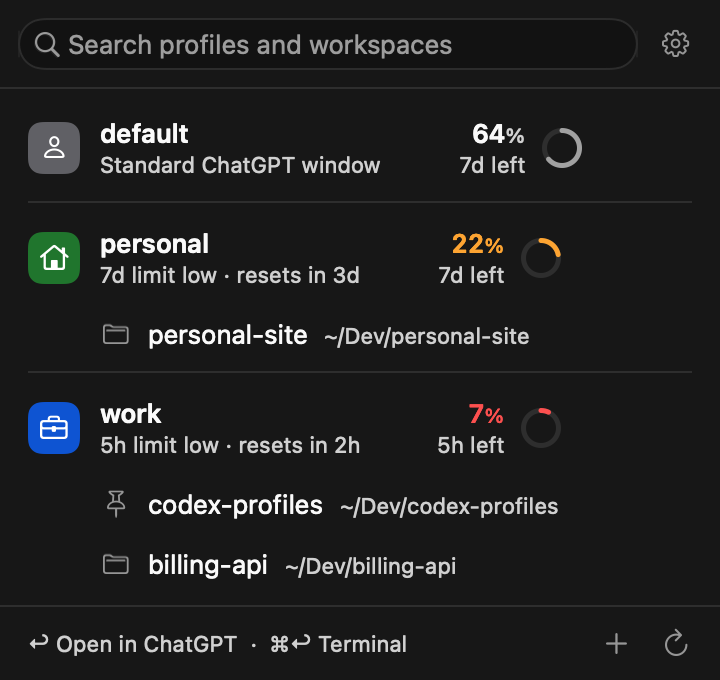
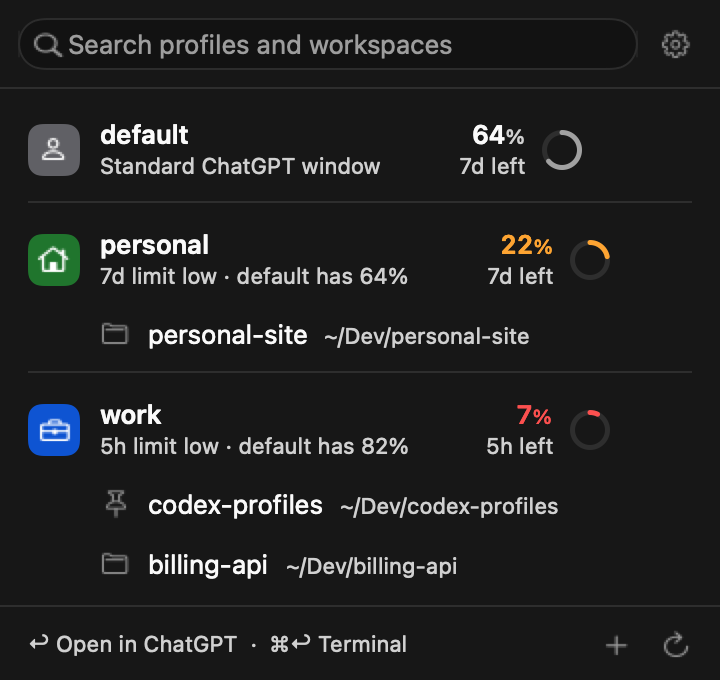
docs(feat): show the menu and terminal side by side on the site
Bring the site's menu bar section up to date with the app and stop
hiding the CLI behind a tab.

- The Menu bar / Terminal switch is gone. The current menu screenshot
  and the terminal sit side by side on the same three-column grid as
  the features below, and stack under 1100px. The terminal types
  itself out once when it scrolls into view.
- `docs/menu-dark.png` is the latest preview render: each profile's
  colour and symbol, and low rows naming a healthier profile.
- The terminal opens with real `codex-profile appearance` output, and
  the feature copy covers colours and symbols, the healthier-profile
  hint, quota beside the menu bar icon and the ⌃⌥⌘P shortcut.
- Terminal lines no longer stay hidden after the typing animation: it
  now uses step-start, because steps(1) could end at 99.999ms and
  never show the line.
- Terminal markers stick to the visible right edge, so a narrow
  terminal never cuts one in half, and feature headings align across
  columns.

diff --git a/docs/index.html b/docs/index.html
@@ -311,16 +311,11 @@
     .kvs dt { color: var(--mute); }
     .kvs dd { margin: 0; text-align: right; }
 
-    .menu-grid { display: grid; grid-template-columns: repeat(auto-fit, minmax(min(320px, 100%), 1fr)); gap: 56px 72px; align-items: center; }
-    .shot { display: flex; flex-direction: column; gap: 20px; min-width: 0; max-width: 640px; margin: 0; }
-    .shot-frame { position: relative; max-width: 460px; }
-    .vsw { display: inline-flex; align-self: flex-start; padding: 3px; border: 1px solid var(--line-2); border-radius: 999px; }
-    .vsw[hidden] { display: none; }
-    .vsw button { min-height: 36px; padding: 0 16px; border: 0; border-radius: 999px; background: transparent; color: var(--mute); font: 12px var(--mono); letter-spacing: 0.06em; text-transform: uppercase; cursor: pointer; transition: background 0.2s, color 0.2s; }
-    .vsw button:hover { color: var(--ink); }
-    .vsw button[aria-selected="true"] { background: var(--ink); color: var(--bg); }
-    .view { min-width: 0; }
-    .view > .cap { margin: 14px 0 0; }
+    .shots { display: grid; grid-template-columns: repeat(3, minmax(0, 1fr)); gap: 48px 40px; align-items: start; }
+    .shot { display: flex; flex-direction: column; gap: 14px; min-width: 0; margin: 0; }
+    .shot-menu { max-width: 460px; }
+    .shot-term { grid-column: span 2; }
+    .shot-frame { position: relative; }
     .term { overflow: hidden; background: #0C0C0B; border: 1px solid #2A2A28; border-radius: 14px; }
     .term-bar { display: flex; justify-content: space-between; gap: 16px; padding: 10px 16px; border-bottom: 1px solid var(--line); font: 11px var(--mono); letter-spacing: 0.06em; text-transform: uppercase; color: var(--mute); }
     .term-body { margin: 0; padding: 14px 0 18px; overflow-x: auto; font: 11.5px/1.6 var(--mono); color: var(--soft); }
@@ -328,10 +323,14 @@
     .ln { position: relative; display: block; padding: 0 52px 0 16px; white-space: pre; transition: background 0.2s; }
     .ln.cmdl, .ln.hd { color: var(--ink); }
     .ln .ps { color: var(--mute); }
-    .tpin { top: 50%; right: 10px; left: auto; transform: translateY(-50%); }
+    /* Terminal markers stick to the visible right edge, so a scrolled or narrow
+       terminal never cuts one in half. */
+    .ln[data-k] { display: flex; align-items: center; padding-right: 10px; }
+    .pin.tpin { position: sticky; top: auto; right: 10px; left: auto; flex: none; margin: -2px 0 -2px auto; transform: none; }
     .caret { display: inline-block; width: 0.6em; height: 1.15em; margin-left: 1px; vertical-align: text-bottom; background: var(--ink); animation: caret 1.1s steps(1) infinite; }
     @keyframes caret { 50% { opacity: 0; } }
-    .term.play .ln { animation: ln-in 0.01s steps(1) both; animation-delay: calc(var(--i) * 45ms); }
+    .term.wait .ln { opacity: 0; }
+    .term.play .ln { animation: ln-in 0.01s step-start both; animation-delay: calc(var(--i) * 45ms); }
     @keyframes ln-in { from { opacity: 0; } to { opacity: 1; } }
     .shot img { display: block; width: 100%; height: auto; border: 1px solid #2A2A28; border-radius: 14px; }
     .pin { position: absolute; padding: 4px 7px; background: var(--bg); border: 1px solid var(--ink); font: 11px/1 var(--mono); letter-spacing: 0.04em; transform: translate(-50%, -50%); transition: background 0.2s, color 0.2s; }
@@ -341,15 +340,12 @@
     .menu:has(.feats li[data-k="1"]:hover) .ln[data-k="1"],
     .menu:has(.feats li[data-k="2"]:hover) .ln[data-k="2"],
     .menu:has(.feats li[data-k="3"]:hover) .ln[data-k="3"] { background: #1A1A19; }
-    .menu-copy { display: flex; flex-direction: column; gap: 40px; }
-    .menu-copy .note { margin: 0; }
-    .feats { margin: 0; padding: 0; list-style: none; }
-    .feats li { display: grid; grid-template-columns: 56px minmax(0, 1fr); gap: 0 20px; padding: 22px 0; border-top: 1px solid var(--line); }
-    .feats li:last-child { border-bottom: 1px solid var(--line); }
+    .feats { display: grid; grid-template-columns: repeat(3, minmax(0, 1fr)); gap: 0 40px; margin: 56px 0 0; padding: 0; list-style: none; }
+    .feats li { display: grid; grid-template-columns: minmax(0, 1fr); align-content: start; gap: 14px; padding: 22px 0; border-top: 1px solid var(--line); }
     .feats h3 { margin: 0 0 8px; font-weight: 400; font-size: 24px; letter-spacing: -0.025em; }
     .feats p { margin: 0; font-size: 16px; line-height: 1.55; color: var(--soft); }
     .feats .tl { margin-top: 10px; font-size: 13px; color: var(--mute); }
-    .feats .tl code { font-size: 12.5px; color: var(--ink); }
+    .feats .tl code { font-size: 12.5px; color: var(--ink); white-space: nowrap; }
 
     .launch-grid { display: grid; grid-template-columns: repeat(auto-fit, minmax(min(340px, 100%), 1fr)); gap: 48px 64px; align-items: center; }
     .traj { position: relative; height: 560px; overflow: hidden; border: 1px solid var(--line); }
@@ -430,8 +426,14 @@
     .foot nav { display: flex; flex-wrap: wrap; gap: 0 22px; }
     .foot nav a { display: inline-flex; align-items: center; min-height: 44px; }
 
+    @media (max-width: 1100px) {
+      .shots { grid-template-columns: 1fr; }
+      .shot-term { grid-column: auto; }
+    }
     @media (max-width: 900px) {
-      .three, .does, .does ul, .notes, .faq-grid { grid-template-columns: 1fr; }
+      .three, .does, .does ul, .notes, .faq-grid, .feats { grid-template-columns: 1fr; }
+      .feats li { grid-template-columns: 56px minmax(0, 640px); gap: 0 20px; }
+      .feats li:last-child { border-bottom: 1px solid var(--line); }
       .zeros { grid-template-columns: repeat(2, minmax(0, 1fr)); }
       .z:nth-child(3) { padding-left: 0; border-left: 0; }
       .z:nth-child(n + 3) { border-top: 1px solid var(--line); }
@@ -448,6 +450,7 @@
       .cmd { padding: 12px 14px; border-radius: 18px; }
       .facts dl div { grid-template-columns: 96px minmax(0, 1fr); }
       .faq-list article { grid-template-columns: 36px minmax(0, 1fr); gap: 8px 12px; }
+      .feats li { grid-template-columns: 36px minmax(0, 1fr); gap: 0 12px; }
       .row { grid-template-columns: 44px minmax(0, 1fr); gap: 8px 14px; }
       .row code { font-size: 16px; }
     }
@@ -456,7 +459,7 @@
     }
     @media (prefers-reduced-motion: reduce) {
       html { scroll-behavior: auto; }
-      .lab, .pin, .wp b, .row, .vsw button, .ln { transition: none; }
+      .lab, .pin, .wp b, .row, .ln { transition: none; }
       .caret, .term.play .ln { animation: none; }
     }
   </style>
@@ -631,42 +634,37 @@
     </section>
 
     <section class="sec menu" id="menubar" aria-labelledby="menubar-title">
-      <div class="menu-grid">
-        <figure class="shot">
-          <div class="vsw" role="tablist" aria-label="Show the menu bar app or the CLI" hidden>
-            <button type="button" role="tab" id="tab-menu" aria-controls="view-menu" aria-selected="true" data-view-tab>Menu bar</button>
-            <button type="button" role="tab" id="tab-term" aria-controls="view-term" aria-selected="false" tabindex="-1" data-view-tab>Terminal</button>
-          </div>
-          <div class="view" id="view-menu" role="tabpanel" aria-labelledby="tab-menu">
+      <div class="sec-head">
+        <div class="sec-title">
+          <span class="cap">(02) Menu bar and terminal</span>
+          <h2 id="menubar-title">Mission control<br>in the menu bar.</h2>
+        </div>
+        <p class="sec-lede">The menu bar app and the CLI show the same profiles, quota and workspaces. Each numbered marker points to the same thing in both.</p>
+      </div>
+      <div class="shots">
+        <figure class="shot shot-menu">
           <div class="shot-frame">
-            <img src="menu-dark.png" width="720" height="680" loading="lazy" decoding="async" alt="Codex Profiles menu bar app in dark appearance: default, personal and work profiles, each in its own colour with its remaining Codex quota as a figure and a ring, personal low in orange and work critical in red with their reset times, and project workspaces nested under their profiles.">
+            <img src="menu-dark.png" width="720" height="680" loading="lazy" decoding="async" alt="Codex Profiles menu bar app in dark appearance: default, personal and work profiles, each with its own colour and symbol and its remaining Codex quota as a figure and a ring. Personal is low in orange and work is critical in red, and each names default as a healthier profile. Project workspaces sit under their profiles.">
             <span class="pin" data-k="1" aria-hidden="true" style="left: 41.7%; top: 19.1%">01</span>
             <span class="pin" data-k="2" aria-hidden="true" style="left: 87.5%; top: 38.5%">02</span>
             <span class="pin" data-k="3" aria-hidden="true" style="left: 88.9%; top: 74.4%">03</span>
           </div>
-          <p class="cap">Fig. 02 — The menu bar app, dark appearance, sample quota values</p>
-          </div>
-          <div class="view" id="view-term" role="tabpanel" aria-labelledby="tab-term">
-            <div class="term">
-              <div class="term-bar"><span>Terminal — codex-profile</span><span>sample values</span></div>
-              <pre class="term-body"><code><span class="ln cmdl" style="--i: 0"><span class="ps">$</span> codex-profile usage</span><span class="ln" style="--i: 1">&#8203;</span><span class="ln hd" style="--i: 2" data-k="1">  default:<span class="pin tpin" data-k="1" aria-hidden="true">01</span></span><span class="ln" style="--i: 3">  5h limit                            82% left, resets in 2h at 21:25</span><span class="ln" style="--i: 4">  7d limit                            64% left, resets in 4d 12h at Nov 1 07:25</span><span class="ln" style="--i: 5">&#8203;</span><span class="ln hd" style="--i: 6">  personal:</span><span class="ln" style="--i: 7">  5h limit                            57% left, resets in 3h at 22:25</span><span class="ln" style="--i: 8">  7d limit</span><span class="ln" style="--i: 9" data-k="2">    22% left (low), resets in 3d at Oct 30 19:25<span class="pin tpin" data-k="2" aria-hidden="true">02</span></span><span class="ln" style="--i: 10">&#8203;</span><span class="ln hd" style="--i: 11">  work:</span><span class="ln" style="--i: 12">  5h limit                            7% left (critical), resets in 2h at 21:25</span><span class="ln" style="--i: 13">  7d limit                            41% left, resets in 4d at Oct 31 19:25</span><span class="ln" style="--i: 14">&#8203;</span><span class="ln" style="--i: 15">  Codex CLI quota per profile. ChatGPT may use a different account.</span><span class="ln" style="--i: 16">&#8203;</span><span class="ln cmdl" style="--i: 17"><span class="ps">$</span> codex-profile workspace list</span><span class="ln" style="--i: 18">Workspace guard mode: warn</span><span class="ln" style="--i: 19">/Users/you/Dev/personal-site -&gt; personal</span><span class="ln" style="--i: 20" data-k="3">/Users/you/Dev/codex-profiles -&gt; work<span class="pin tpin" data-k="3" aria-hidden="true">03</span></span><span class="ln" style="--i: 21">/Users/you/Dev/billing-api -&gt; work</span><span class="ln cmdl" style="--i: 22"><span class="ps">$</span> <span class="caret"></span></span></code></pre>
-            </div>
-            <p class="cap">Fig. 02 — The same profiles from the CLI: real codex-profile output with sample quota</p>
-          </div>
+          <figcaption class="cap">Fig. 02a — The menu bar app, dark appearance, sample quota values</figcaption>
         </figure>
-        <div class="menu-copy">
-          <div class="sec-title">
-            <span class="cap">(02) Menu bar and terminal</span>
-            <h2 id="menubar-title">Mission control<br>in the menu bar.</h2>
+        <figure class="shot shot-term">
+          <div class="term">
+            <div class="term-bar"><span>Terminal — codex-profile</span><span>sample values</span></div>
+            <pre class="term-body"><code><span class="ln cmdl" style="--i: 0"><span class="ps">$</span> codex-profile appearance</span><span class="ln" style="--i: 1" data-k="1">default: graphite person<span class="pin tpin" data-k="1" aria-hidden="true">01</span></span><span class="ln" style="--i: 2">personal: green house</span><span class="ln" style="--i: 3">work: blue briefcase</span><span class="ln" style="--i: 4">&#8203;</span><span class="ln cmdl" style="--i: 5"><span class="ps">$</span> codex-profile usage</span><span class="ln" style="--i: 6">&#8203;</span><span class="ln hd" style="--i: 7">  default:</span><span class="ln" style="--i: 8">  5h limit                            82% left, resets in 2h at 21:25</span><span class="ln" style="--i: 9">  7d limit                            64% left, resets in 4d 12h at Nov 1 07:25</span><span class="ln" style="--i: 10">&#8203;</span><span class="ln hd" style="--i: 11">  personal:</span><span class="ln" style="--i: 12">  5h limit                            57% left, resets in 3h at 22:25</span><span class="ln" style="--i: 13" data-k="2">  7d limit<span class="pin tpin" data-k="2" aria-hidden="true">02</span></span><span class="ln" style="--i: 14" data-k="2">    22% left (low), resets in 3d at Oct 30 19:25</span><span class="ln" style="--i: 15">&#8203;</span><span class="ln hd" style="--i: 16">  work:</span><span class="ln" style="--i: 17">  5h limit                            7% left (critical), resets in 2h at 21:25</span><span class="ln" style="--i: 18">  7d limit                            41% left, resets in 4d at Oct 31 19:25</span><span class="ln" style="--i: 19">&#8203;</span><span class="ln" style="--i: 20">  Codex CLI quota per profile. ChatGPT may use a different account.</span><span class="ln" style="--i: 21">&#8203;</span><span class="ln cmdl" style="--i: 22"><span class="ps">$</span> codex-profile workspace list</span><span class="ln" style="--i: 23">Workspace guard mode: warn</span><span class="ln" style="--i: 24">/Users/you/Dev/personal-site -&gt; personal</span><span class="ln" style="--i: 25" data-k="3">/Users/you/Dev/codex-profiles -&gt; work<span class="pin tpin" data-k="3" aria-hidden="true">03</span></span><span class="ln" style="--i: 26">/Users/you/Dev/billing-api -&gt; work</span><span class="ln cmdl" style="--i: 27"><span class="ps">$</span> <span class="caret"></span></span></code></pre>
           </div>
-          <ol class="feats">
-            <li data-k="1"><span class="cap cap-ink">01</span><div><h3>Profiles</h3><p>Each profile leads its own group, with its workspaces beneath it. Click a row to open it in ChatGPT, or <span class="nw">⌘-click</span> to open it in Terminal. Different names stay open side by side.</p><p class="tl"><code>codex-profile app work</code> and <code>codex-profile cli work</code> open the same profile from the CLI.</p></div></li>
-            <li data-k="2"><span class="cap cap-ink">02</span><div><h3>Codex quota</h3><p>Each profile shows its tightest Codex window as a figure and a ring that turns orange or red when it runs low, with the reset time. The app never switches profiles or accounts for you.</p><p class="tl"><code>codex-profile usage</code> prints every window with its reset time.</p></div></li>
-            <li data-k="3"><span class="cap cap-ink">03</span><div><h3>Workspaces</h3><p>Bind project folders to a profile and pin the ones you use most. Search from the keyboard, or press ⌘1–9 to open a visible row.</p><p class="tl"><code>codex-profile workspace list</code> shows the same bindings.</p></div></li>
-          </ol>
-          <p class="note">Build it from a source checkout on macOS 13 or newer with make menu-app. It includes codex-profile and uses the official Codex CLI for Terminal launches, sign-in and quota. There is no signed download yet. Follow the <a href="https://github.com/Ducksss/codex-profiles/blob/main/macos/README.md">build and quota guide</a>.</p>
-        </div>
+          <figcaption class="cap">Fig. 02b — The same profiles from the CLI: real codex-profile output with sample quota</figcaption>
+        </figure>
       </div>
+      <ol class="feats">
+        <li data-k="1"><span class="cap cap-ink">01</span><div><h3>Profiles</h3><p>Each profile leads its own group in its own colour and symbol, with its workspaces beneath it. Click a row to open it in ChatGPT, or <span class="nw">⌘-click</span> to open it in Terminal. Different names stay open side by side.</p><p class="tl"><code>codex-profile appearance</code> shares the look with the shell prompt and Raycast. <code>codex-profile app work</code> or <code>codex-profile cli work</code> opens the profile from the CLI.</p></div></li>
+        <li data-k="2"><span class="cap cap-ink">02</span><div><h3>Codex quota</h3><p>Each profile shows its tightest Codex window as a figure and a ring that turns orange or red when it runs low. A low row names a healthier profile, and the lowest share can sit beside the menu bar icon. The app never switches profiles or accounts for you.</p><p class="tl"><code>codex-profile usage</code> prints every window with its reset time.</p></div></li>
+        <li data-k="3"><span class="cap cap-ink">03</span><div><h3>Workspaces</h3><p>Bind project folders to a profile and pin the ones you use most. Search from the keyboard, press ⌘1–9 to open a visible row, or turn on <span class="nw">⌃⌥⌘P</span> to open the menu from any app.</p><p class="tl"><code>codex-profile workspace list</code> shows the same bindings.</p></div></li>
+      </ol>
+      <p class="note">Build it from a source checkout on macOS 13 or newer with make menu-app. It includes codex-profile and uses the official Codex CLI for Terminal launches, sign-in and quota. There is no signed download yet. Follow the <a href="https://github.com/Ducksss/codex-profiles/blob/main/macos/README.md">build and quota guide</a>.</p>
     </section>
 
     <section class="sec launch" id="install" aria-labelledby="install-title">
@@ -891,7 +889,7 @@
         this.tickBound = (now) => this.tick(now);
         this.mountFields();
         this.mountCopy();
-        this.mountTabs();
+        this.mountTerm();
         if (document.fonts && document.fonts.load) {
           document.fonts.load('500 52px "IBM Plex Mono"').then(() => {
             this.fontReady = true;
@@ -917,43 +915,19 @@
         this.copyEls.forEach((btn) => btn.addEventListener('click', this.onCopy));
       }
 
-      mountTabs() {
-        this.tabEls = Array.prototype.slice.call(document.querySelectorAll('[data-view-tab]'));
-        this.onTab = (e) => {
-          const tab = e.currentTarget;
-          const tabs = Array.prototype.slice.call(tab.parentElement.querySelectorAll('[data-view-tab]'));
-          tabs.forEach((t) => {
-            const on = t === tab;
-            t.setAttribute('aria-selected', on ? 'true' : 'false');
-            t.tabIndex = on ? 0 : -1;
-            const panel = document.getElementById(t.getAttribute('aria-controls'));
-            if (panel) panel.hidden = !on;
-          });
-          const term = document.getElementById(tab.getAttribute('aria-controls'));
-          const replay = term && term.querySelector('.term');
-          if (replay) {
-            replay.classList.remove('play');
-            void replay.offsetWidth;
-            replay.classList.add('play');
-          }
-        };
-        this.onTabKey = (e) => {
-          if (e.key !== 'ArrowLeft' && e.key !== 'ArrowRight') return;
-          const tabs = Array.prototype.slice.call(e.currentTarget.parentElement.querySelectorAll('[data-view-tab]'));
-          const next = tabs[(tabs.indexOf(e.currentTarget) + (e.key === 'ArrowRight' ? 1 : tabs.length - 1)) % tabs.length];
-          e.preventDefault();
-          next.focus();
-          next.click();
-        };
-        this.tabEls.forEach((t) => {
-          t.addEventListener('click', this.onTab);
-          t.addEventListener('keydown', this.onTabKey);
-          // Without JavaScript both views stay visible; with it, show the switch
-          // and only the selected view.
-          t.parentElement.hidden = false;
-          const panel = document.getElementById(t.getAttribute('aria-controls'));
-          if (panel) panel.hidden = t.getAttribute('aria-selected') !== 'true';
-        });
+      mountTerm() {
+        // Type the terminal out once, the first time it scrolls into view.
+        // Without an observer, or with reduced motion, it stays fully drawn.
+        const term = document.querySelector('.term');
+        if (!term || this.reduceMotion || !window.IntersectionObserver) return;
+        term.classList.add('wait');
+        const io = new IntersectionObserver((entries) => {
+          if (!entries[entries.length - 1].isIntersecting) return;
+          io.disconnect();
+          term.classList.remove('wait');
+          term.classList.add('play');
+        }, { threshold: 0.35 });
+        io.observe(term);
       }
 
       mountFields() {

diff --git a/CHANGELOG.md b/CHANGELOG.md
@@ -38,8 +38,9 @@ and this project follows semantic versioning for tagged releases.
 - Redesigned the project website as a dark ASCII page drawn live with WebGL:
   an orbiting planet with one moon per profile, live phase moons for each
   Codex home, an install trajectory and a dawn horizon, all reacting to the
-  cursor. The menu bar section switches between the app's screenshot and real
-  `codex-profile usage` and `workspace list` output. Static ASCII art replaces
+  cursor. The menu bar section shows the app's current screenshot beside real
+  `codex-profile appearance`, `usage` and `workspace list` output, with
+  matching numbered markers in both. Static ASCII art replaces
   the scenes without WebGL or JavaScript, and the FAQ, project facts and safety
   boundaries stay in the HTML.
 - Redrew the link preview image to match: the site's ASCII planet and its
